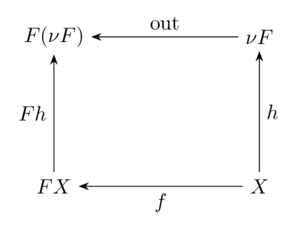
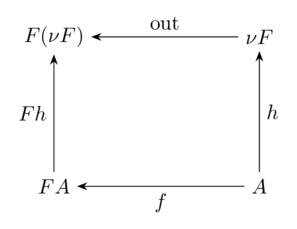
wip

Changed region(s): [[0.1212, 0.7642, 0.303, 0.8559], [0.8485, 0.7642, 0.9091, 0.8559]]

diff --git a/.readme/tex/fold_unfold.tex b/.readme/tex/fold_unfold.tex
@@ -13,7 +13,7 @@
                 column sep=2.5cm,
                 nodes={anchor=center}] {
     $F(\mu F)$ & $\mu F$ \\
-    $F X$      & $X$     \\
+    $F A$      & $A$     \\
   };
 
   \draw[->] (m1-1-1) -- (m1-2-1) node[midway,left] {$Fh$};
@@ -28,7 +28,7 @@
                   column sep=2.5cm,
                   nodes={anchor=center}] {
       $F(\nu F)$ & $\nu F$ \\
-      $F X$      & $X$     \\
+      $F A$      & $A$     \\
     };
 
     \draw[<-] (m2-1-1) -- (m2-2-1) node[midway,left] {$Fh$};

diff --git a/.readme/tex/fold.tex b/.readme/tex/fold.tex
@@ -12,7 +12,7 @@
                 column sep=2.5cm,
                 nodes={anchor=center}] {
     $F(\mu F)$ & $\mu F$ \\
-    $F X$      & $X$     \\
+    $F A$      & $A$     \\
   };
 
   \draw[->] (m1-1-1) -- (m1-2-1) node[midway,left] {$Fh$};

diff --git a/.readme/tex/unfold.tex b/.readme/tex/unfold.tex
@@ -12,7 +12,7 @@
                 column sep=2.5cm,
                 nodes={anchor=center}] {
     $F(\nu F)$ & $\nu F$ \\
-    $F X$      & $X$     \\
+    $F A$      & $A$     \\
   };
 
   \draw[<-] (m2-1-1) -- (m2-2-1) node[midway,left] {$Fh$};

diff --git a/docs/README.md b/docs/README.md
@@ -2026,7 +2026,7 @@ An algebraic data type can be seen as the [initial algebra](https://en.wikipedia
 <img src="../.readme/tex/png/fold.png" />
 </p>
 
-Data types are built from constructors. For example, consider the `List` type:
+Data types are built from constructors. Consider the `List` type, for example:
 
 ```
 type List<t> 
@@ -2051,9 +2051,7 @@ The recursive type itself is the [fixed point](https://en.wikipedia.org/wiki/Fix
 List<t> ≅ μF
 ```
 
-Next, an *algebra* for a functor *F* is a type *A* (the *carrier*) together with a function *F(A) → A*.
-
-Notice that this function is what the pattern matching clauses (combined with the `@`-pattern syntax) in `fold` expressions describe:
+Next, an *algebra* for a functor *F* is a type *A* (the *carrier*) together with a function *F(A) → A*. This function is what the pattern matching clauses (in combination with the `@`-pattern syntax) in `fold` expressions describe:
 
 ```
 fold(xs) {
